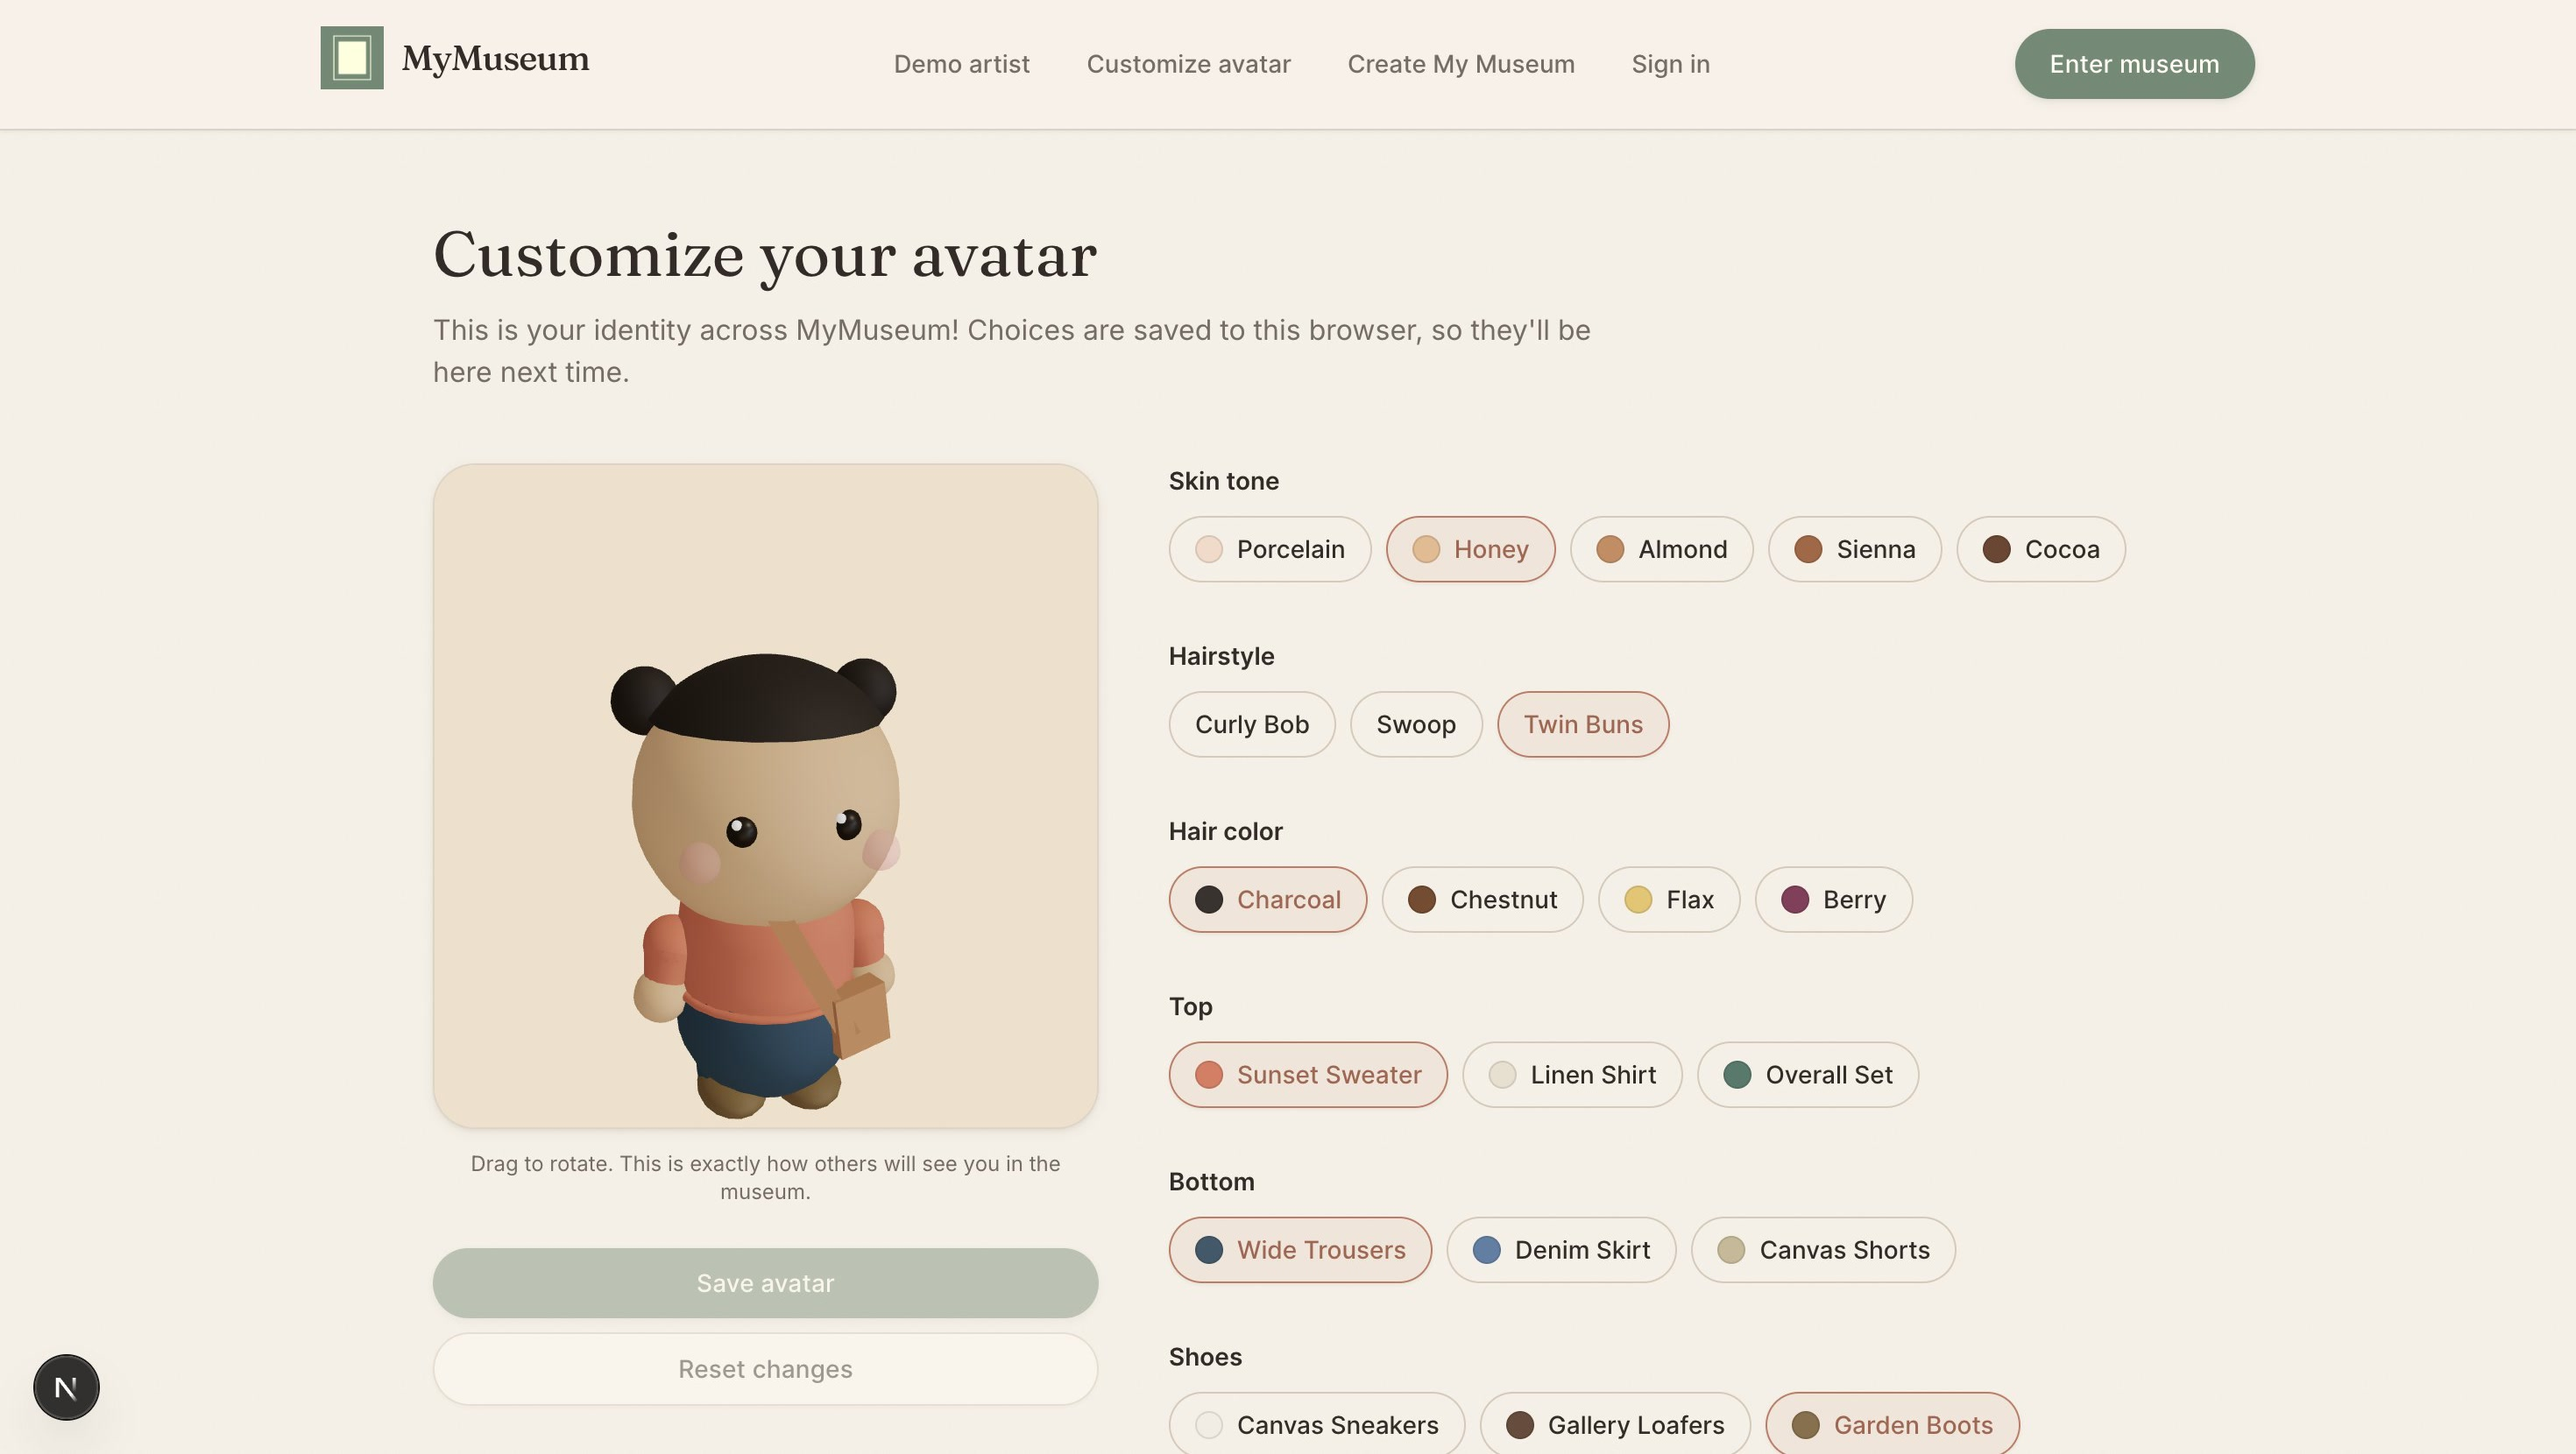
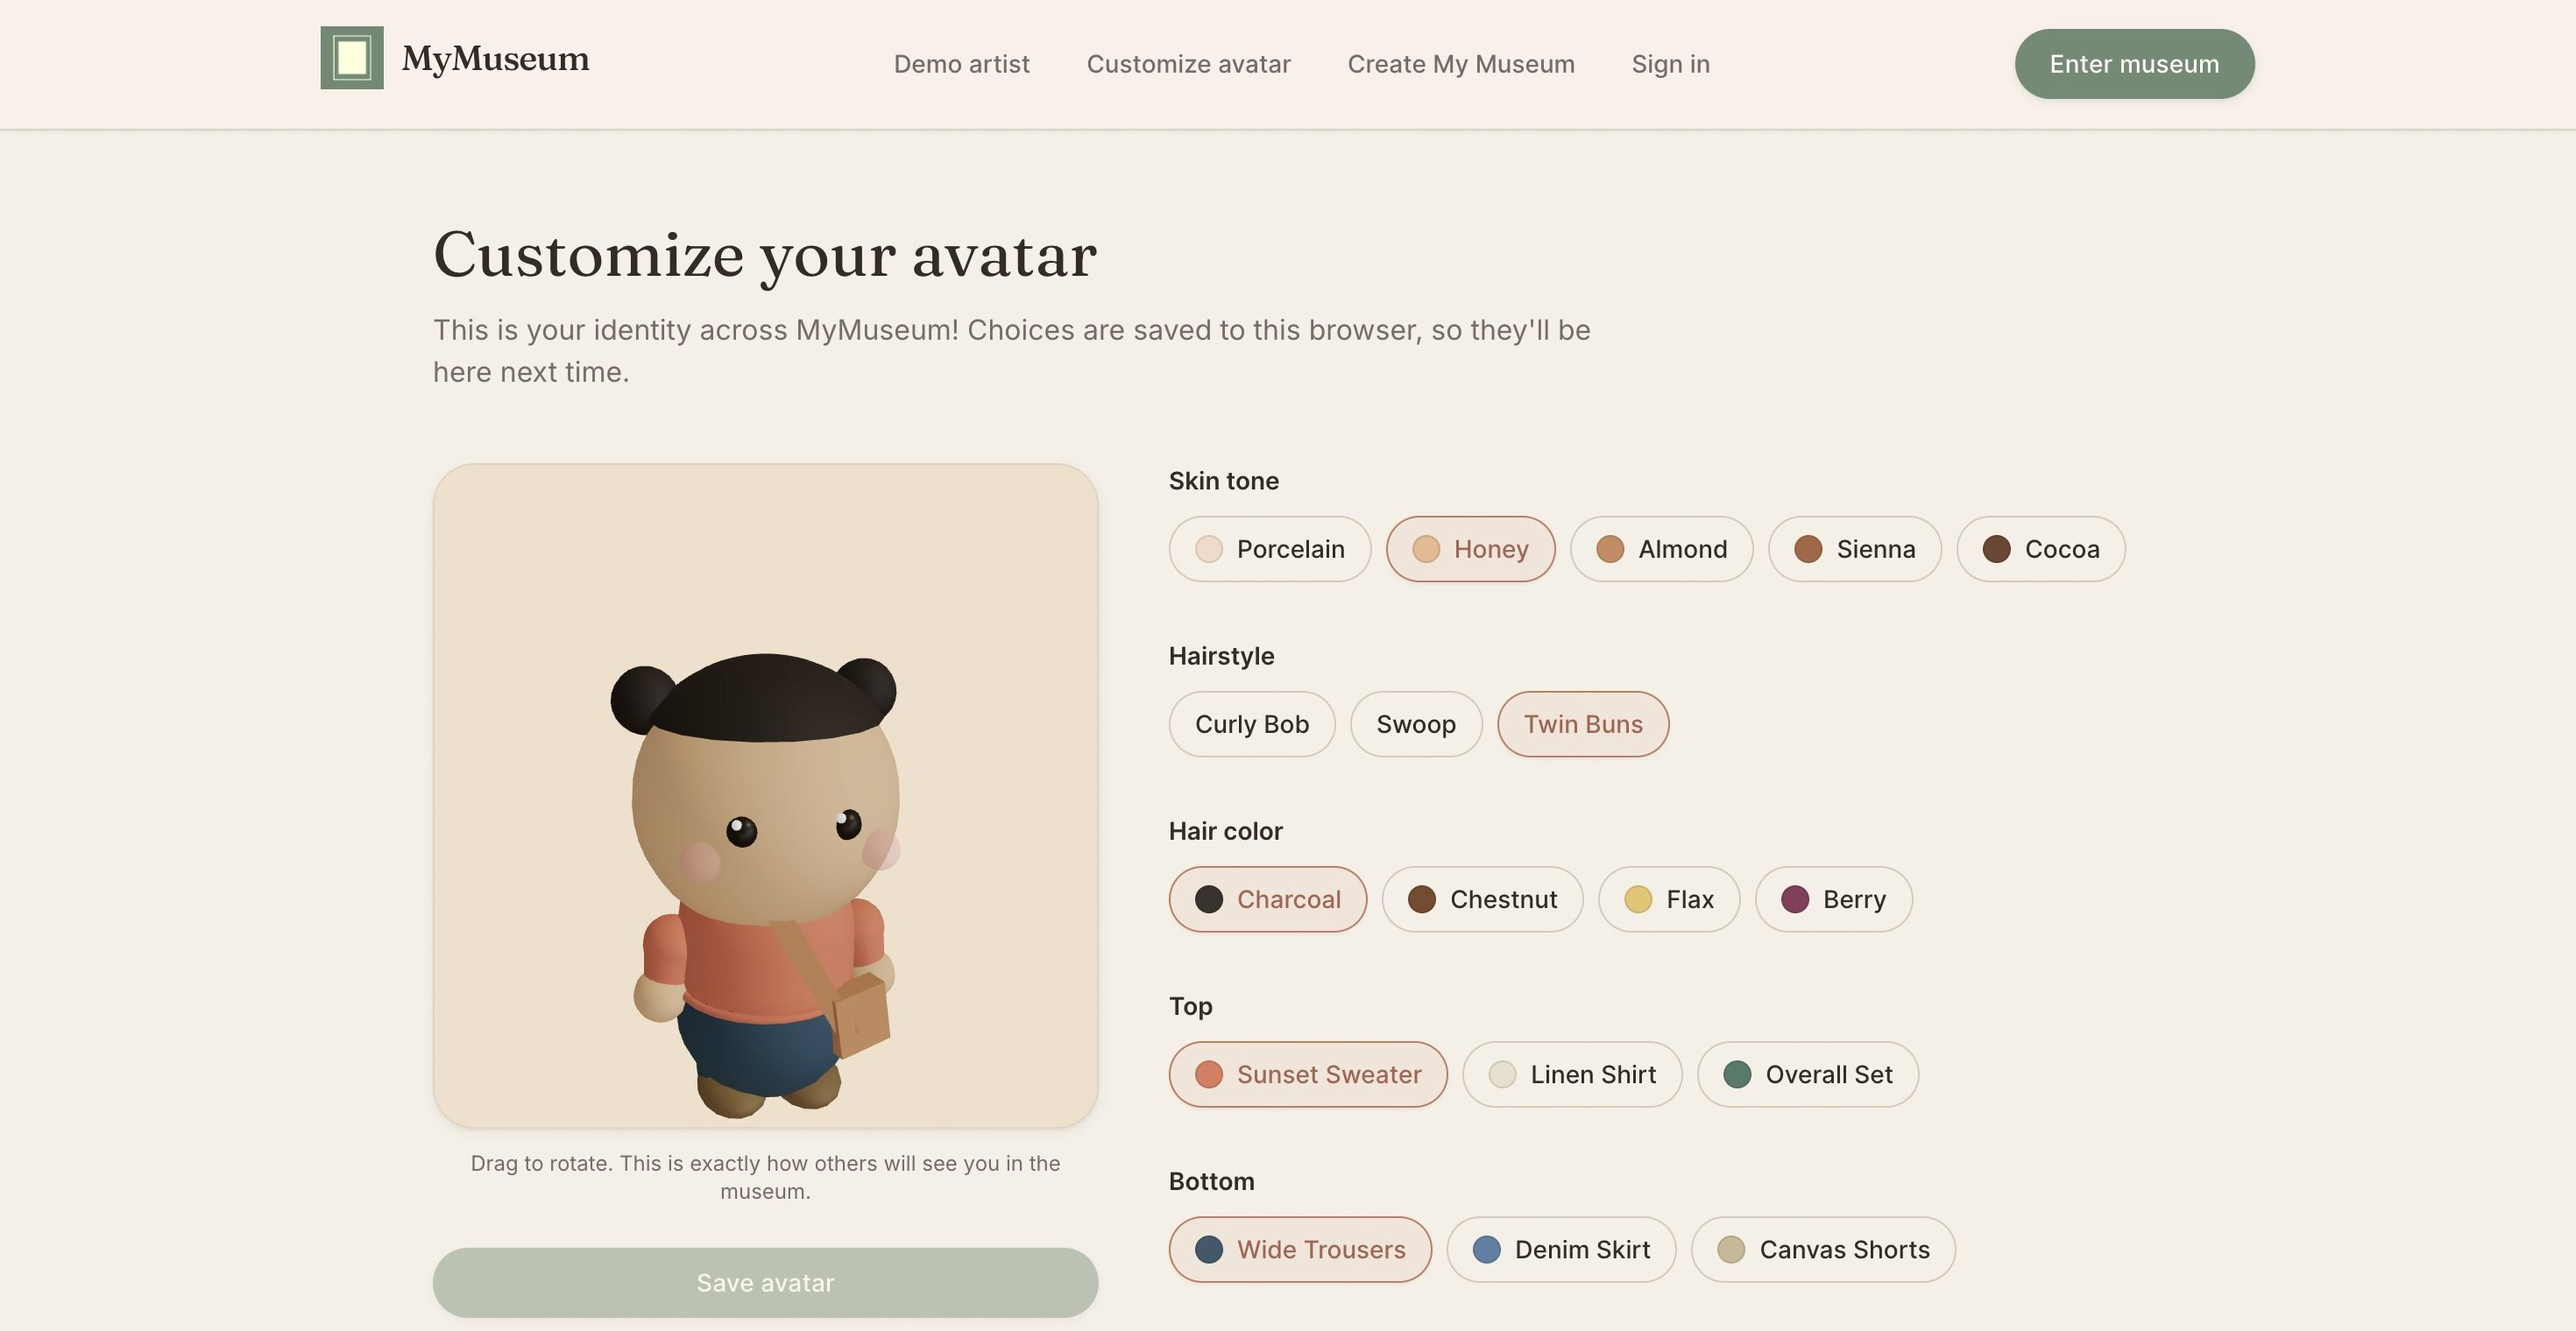
MyMuseum: crop dev badge out of early-prototype screenshots

diff --git a/src/data/case-studies/my-museum.ts b/src/data/case-studies/my-museum.ts
@@ -566,14 +566,14 @@ export const myMuseum: CaseStudyData = {
         src: "/images/projects/mymuseum/history/aug-one-room.jpg",
         alt: "Early version: a visitor's humanoid avatar alone in a large, mostly empty dark room.",
         width: 2940,
-        height: 1660,
+        height: 1520,
         caption: "One room size for every museum.",
       },
       {
         src: "/images/projects/mymuseum/history/aug-humanoid-avatar.jpg",
         alt: "Early avatar editor: a humanoid character with options for skin tone, hairstyle, hair color, top, bottom, and shoes.",
         width: 2940,
-        height: 1660,
+        height: 1520,
         caption: "Humanoid avatars. Both images are the earliest saved version (August) — the tested prototype itself wasn't saved, but these still have the same rooms and avatars.",
       },
     ],
